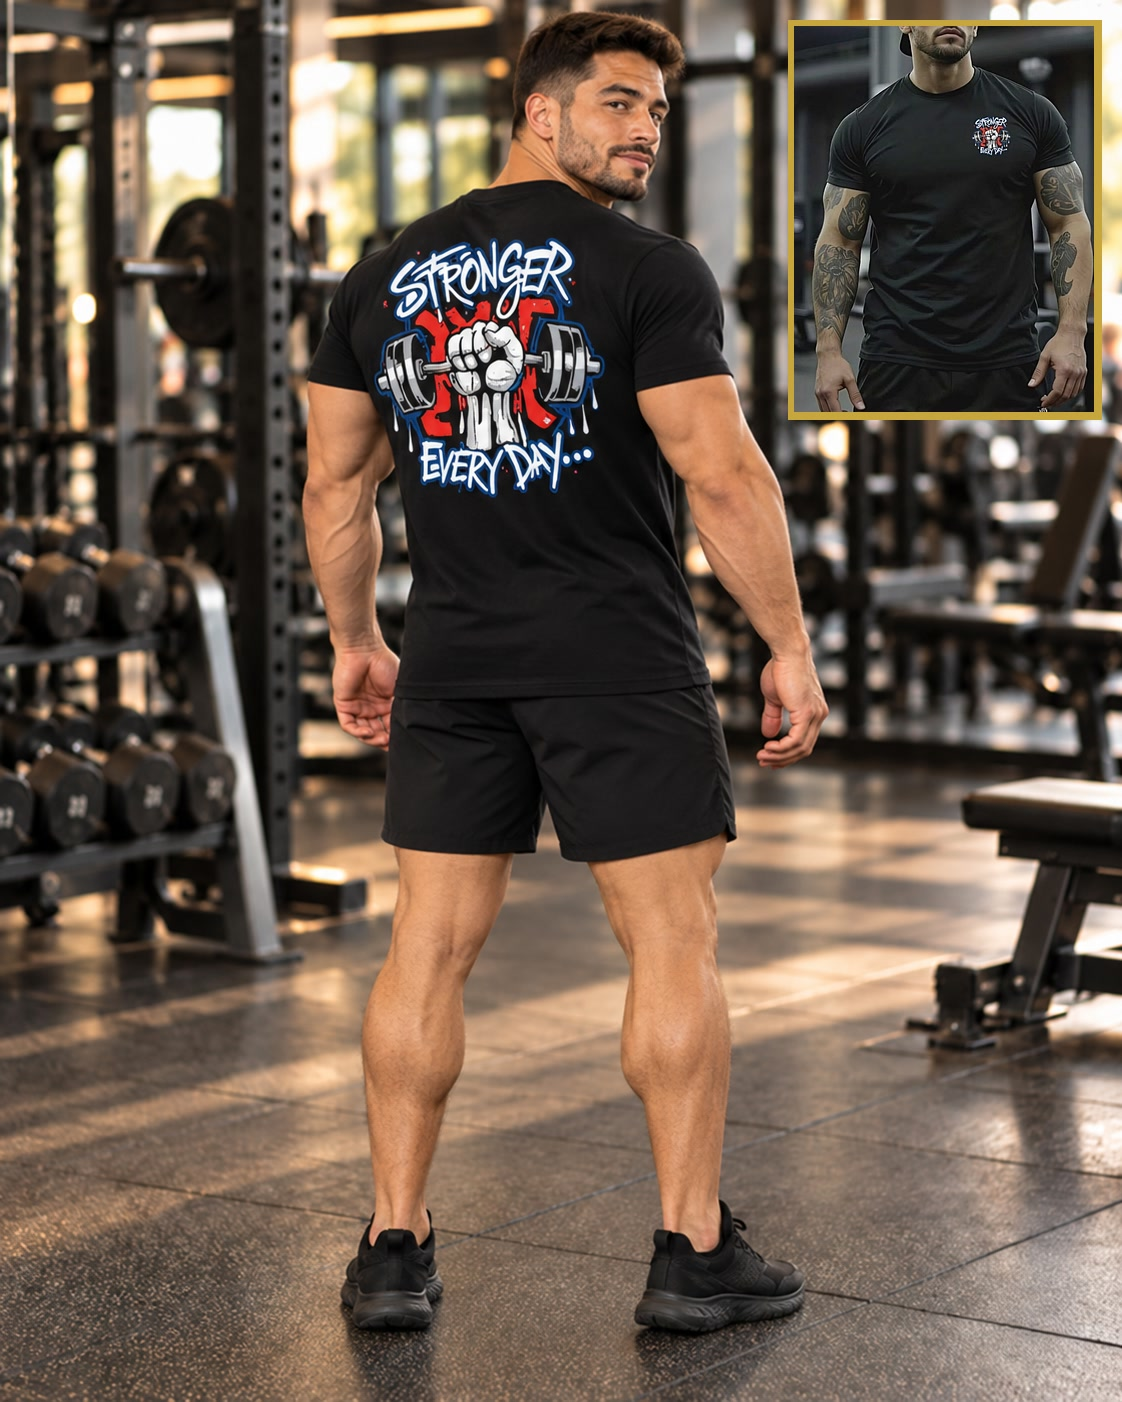
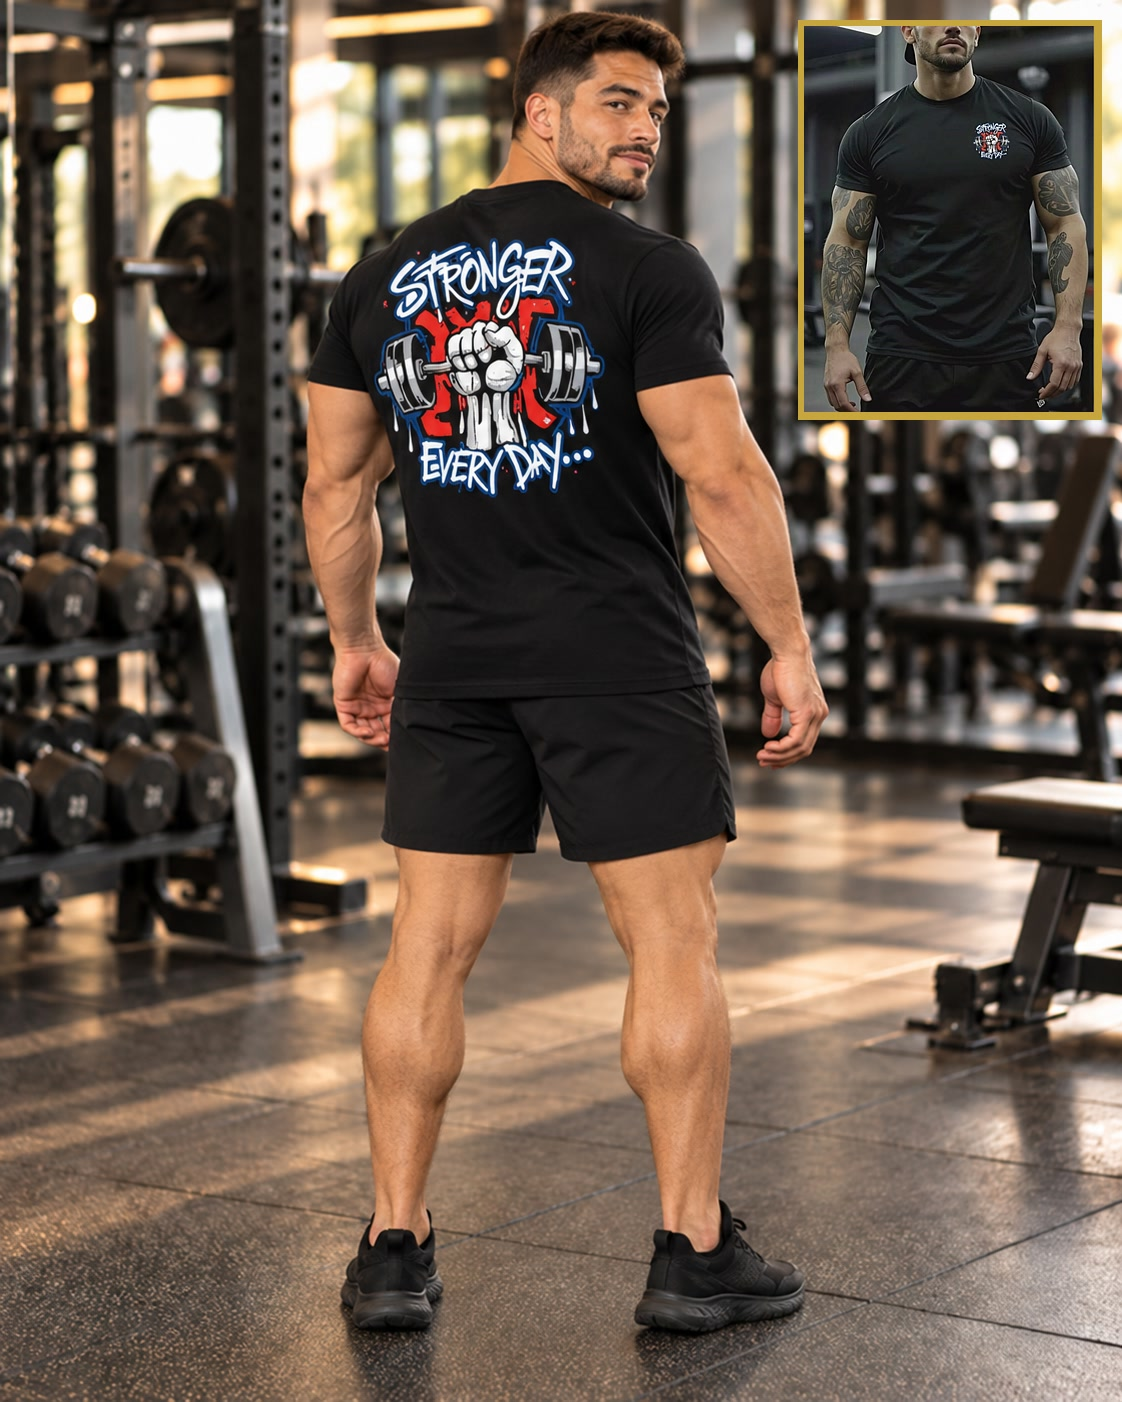
Tienda: cuadro de la polera Stronger con la captura nueva
Claude-Session: https://claude.ai/code/session_013ZgZPSRHEDhMsqmx8Km842

Changed region(s): [[0.6863, 0.0, 0.9982, 0.3067]]

diff --git a/tienda.html b/tienda.html
@@ -221,7 +221,7 @@ function hoyISO(){ return new Intl.DateTimeFormat("en-CA", { timeZone:"America/S
 function ahoraTxt(){ var f = new Intl.DateTimeFormat("sv-SE", { timeZone:"America/Santiago", year:"numeric", month:"2-digit", day:"2-digit", hour:"2-digit", minute:"2-digit" }).format(new Date()); return f.replace("T", " ").slice(0, 16); }
 function normTxt(s){ return String(s || "").toUpperCase().normalize("NFD").replace(/[̀-ͯ]/g, ""); }
 /* Al cambiar una foto en img/tienda/ (mismo nombre), subir FOTO_V para que los teléfonos no muestren la antigua. */
-var FOTO_V = "14";
+var FOTO_V = "15";
 function fotoUrl(f){ return f ? f + (f.indexOf("?") < 0 ? "?v=" + FOTO_V : "") : ""; }
 function iconoCat(c){ var x = CATS.filter(function(k){ return k[0] === c; })[0]; return x ? x[1] : "📦"; }
 function toast(t, ms){ var el = $("toast"); el.textContent = t; el.style.display = "block"; clearTimeout(toast.t); toast.t = setTimeout(function(){ el.style.display = "none"; }, ms || 2600); }
@@ -303,7 +303,7 @@ setInterval(function(){ if(pend.length) enviarPendientes(); }, 30000);
    el computador"): los datos se vuelven a pedir a la planilla cada 30 s mientras la página está a la vista (sin una ficha
    abierta), y cada minuto se revisa tienda-version.txt: si hay una versión nueva de la página, se recarga sola.
    Cada vez que se cambie tienda.html, subir TIENDA_VERSION y tienda-version.txt juntos (AAAAMMDDNN). */
-var TIENDA_VERSION = "2026102505";
+var TIENDA_VERSION = "2026102506";
 setInterval(function(){ if(clave && !document.hidden && $("velo").hidden && !$("app").hidden) enviarPendientes().then(function(){ cargar(true); }); }, 30000);
 function revisarVersion(){
  fetch("tienda-version.txt?t=" + Date.now(), { cache:"no-store" }).then(function(r){ return r.ok ? r.text() : ""; }).then(function(v){
